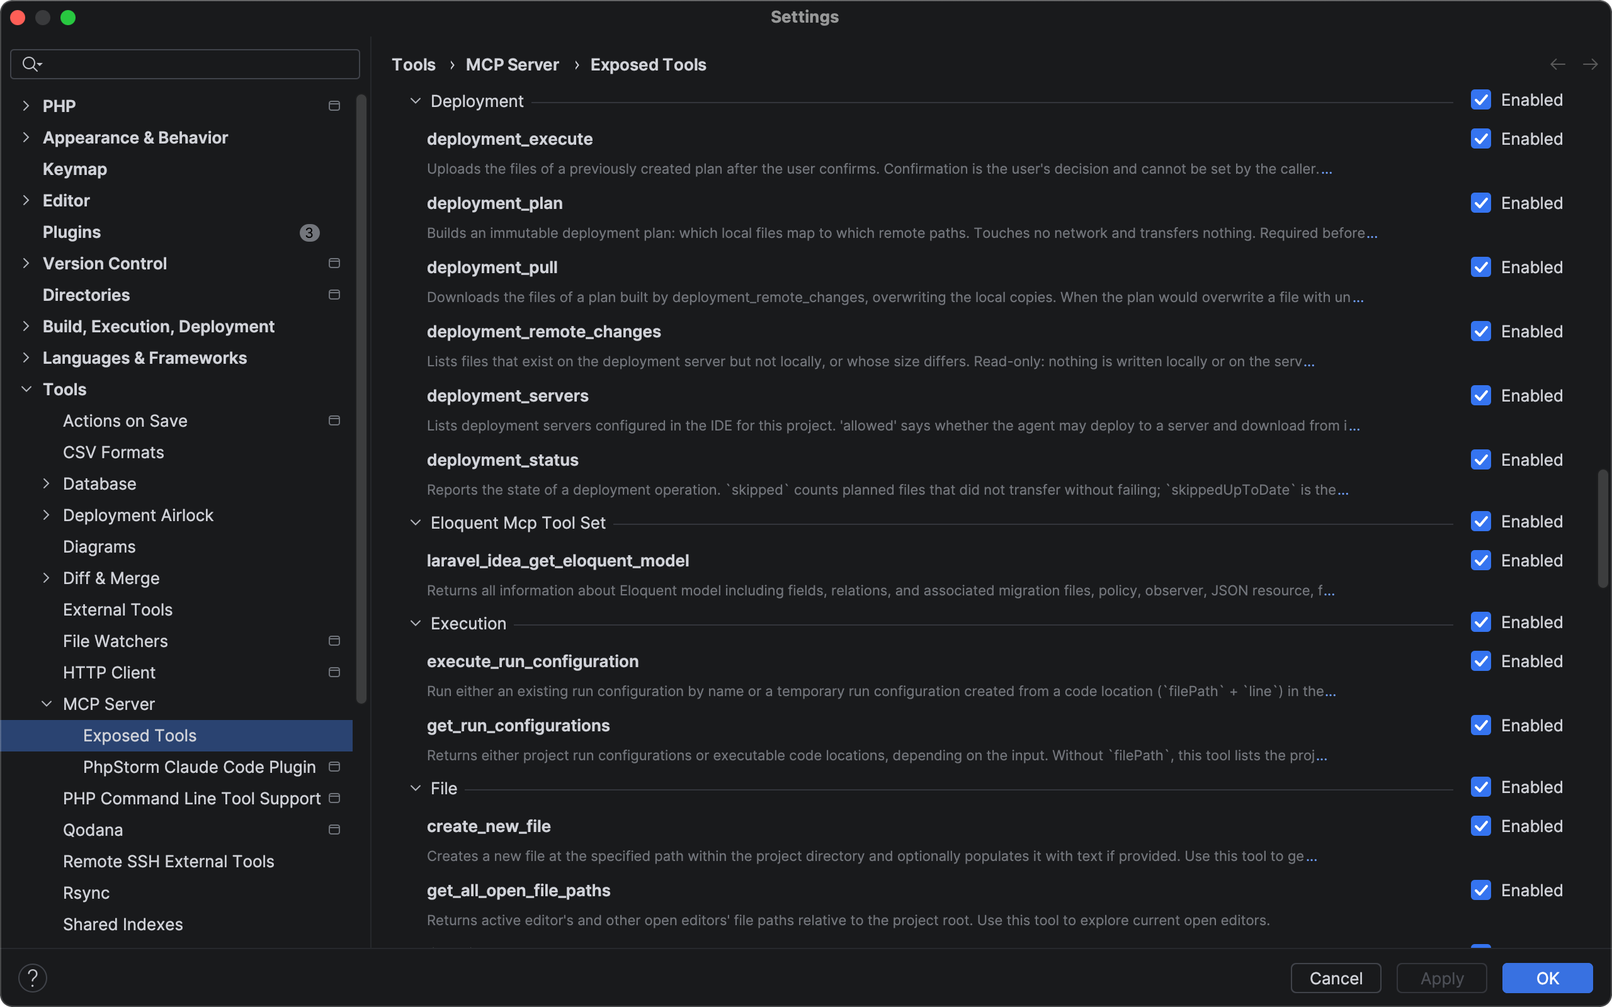
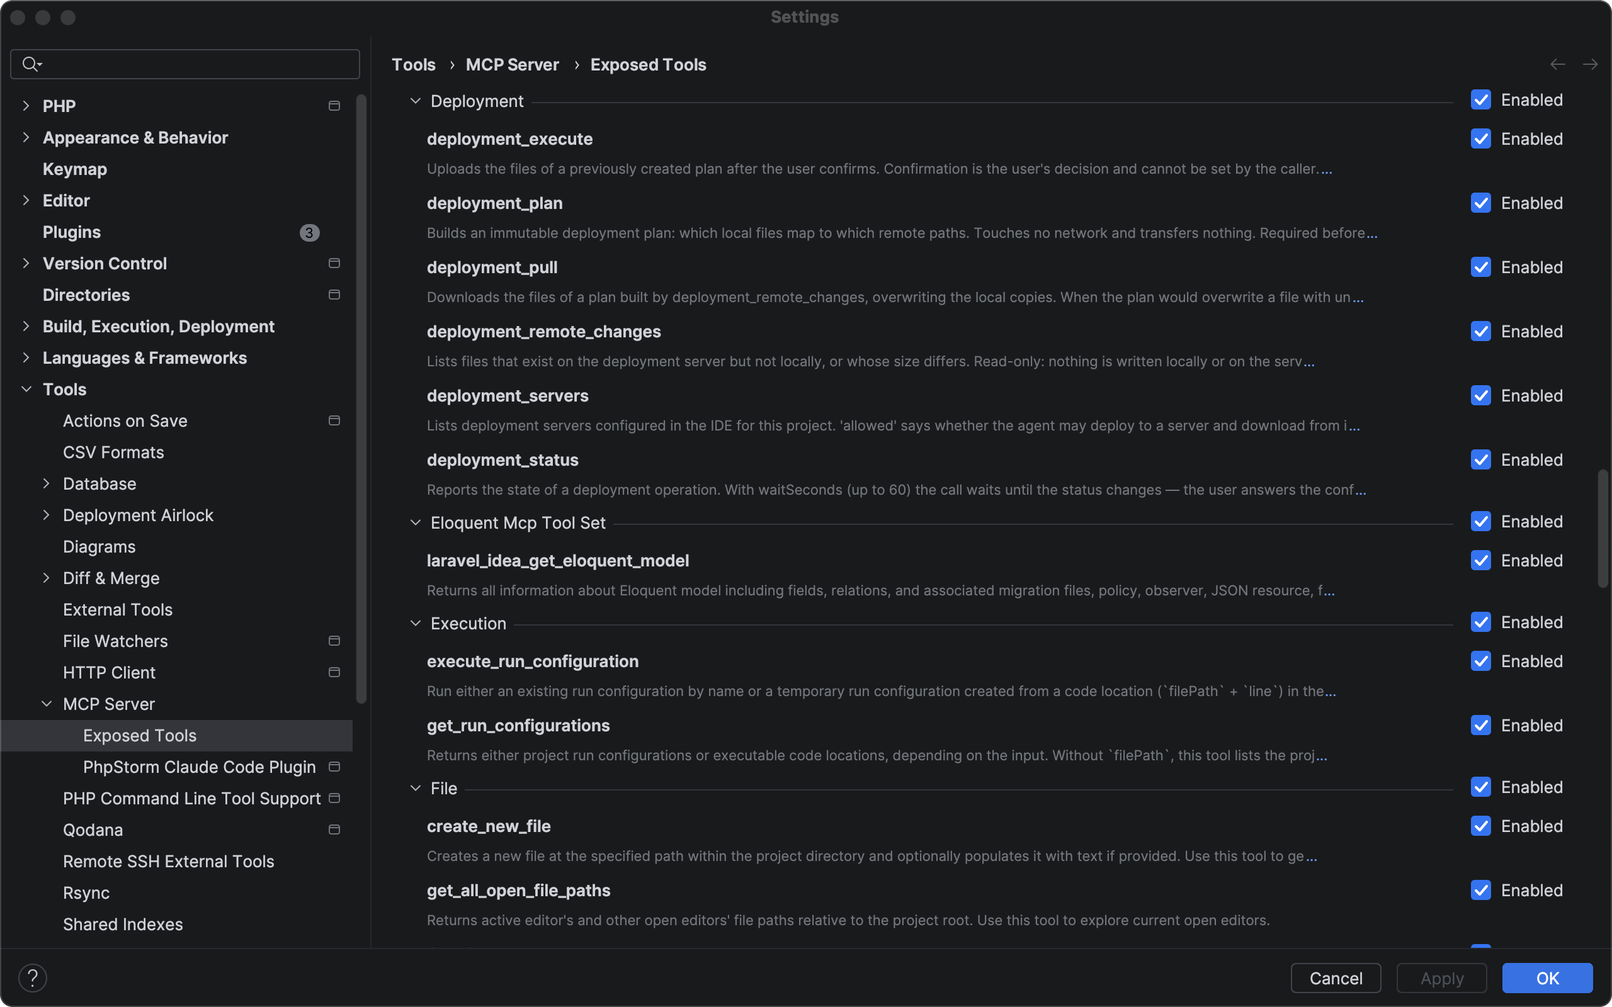
Release 1.1.0: exclusion presets, upload echo, deployment_status wait

diff --git a/docs/guide/settings.md b/docs/guide/settings.md
@@ -8,7 +8,7 @@ Settings live at the IDE level (**Settings | Tools | Deployment Airlock**) and a
 The split is forced, not a convenience. The project's settings file sits inside the project, and
 the platform picks up external edits to it — so every weakening a project file can express is a
 weakening the agent can grant itself. The effective policy is therefore `strictest(app, project)`,
-merged field by field, and the project level can only tighten.
+merged field by field, and the project level can only tighten (the one exception is [Auto-upload echo](#auto-upload-echo), where no value weakens the barrier).
 
 This page lists every setting in the order the pages show them. For each one: the label as it
 appears in the IDE, then its default, its range, the pages it is on and how the two levels merge.
@@ -152,6 +152,36 @@ When off, a download asks only about files with uncommitted changes, and a plan 
 does not have yet arrives silently. When on, every download asks first, and the setting above stops
 changing anything. A project may switch it on, and cannot switch off what the IDE level switched on.
 
+## Auto-upload echo
+
+Applies to the auto-upload mode **On explicit save action**. In **Always** the IDE uploads a change
+the moment it sees it, before Airlock can act, so these options have no effect there.
+
+After Airlock uploads files, the IDE's own auto-upload would send the same files again
+on the next save: it queues every change and knows nothing about what Airlock did. These options stop
+exactly that repeat. A file is skipped only when Airlock knows its current bytes are already on every
+server auto-upload targets; a file edited after the transfer is uploaded as before. Each skip is
+written to the audit log as `autoUploadSkipped`. Airlock does not otherwise touch auto-upload, and
+the warning about it stays. The memory lasts while the project is open and is cleared by any change
+to the deployment configuration. With Airlock switched off nothing is skipped. Files Airlock
+downloads are not sent back in any mode: the IDE itself skips the files of its own transfers.
+
+**Skip auto-upload of files Airlock already uploaded**\
+Default: on · Pages: both · Merge: the project overrides the IDE (project: As in IDE / On / Off)
+
+A file whose bytes Airlock just put on the target is not uploaded again on save.
+
+**Notify when an auto-upload is skipped**\
+Default: off · Pages: both · Merge: the project overrides the IDE (project: As in IDE / On / Off)
+
+Off by default: after agent work every save would show a balloon.
+
+**Unlike every other setting here, the project may relax these as well as tighten them.** No value
+weakens the barrier: with the option on, only what is already on the same servers with the same
+content is skipped; with it off, the repeat returns, and nothing new is sent either way. An agent
+gains nothing by rewriting the field. On Project Rules each option is a choice of **As in IDE (On)**
+or **As in IDE (Off)** (showing the IDE value), **On**, **Off**; the IDE page has plain checkboxes.
+
 ## Trust
 
 **Trust mode:**\
@@ -189,10 +219,96 @@ Both pages in full, the IDE level first:
 
 ![Full Project Rules page, all groups](img/settings-project-full.png)
 
+## Exclusion presets
+
+A preset is a named list of path patterns for **Deployment | Excluded Paths**, set up once at the IDE
+level and bound to a project. While it is bound, Airlock keeps its entries in the excluded paths of
+every server of the project, including servers added later and files that appear later. A preset adds
+exclusions; only your own action in the settings removes them, so a preset cannot let anything new leave the
+machine on its own. Built-in presets: **AI agents**,
+**Laravel**, **MODX**, **Symfony**, **WordPress**, **Node / frontend**, **Python**. Review what a
+preset holds before you bind it.
+
+**Settings | Tools | Deployment Airlock | Exclusion Presets** (IDE level) edits the presets. The list
+marks **built-in**, **modified** and **hidden** ones. Its toolbar has **+** (New…), **−** (Delete,
+your own presets only), the pencil (Rename…), **Clone…**, **Hide** / **Show** (built-in ones can be
+hidden, not deleted) and **Reset to Default** (a modified built-in one). The entries of the selected
+preset are in the **Entries:** table, one entry per row. Its toolbar has **+** (a new row after the
+selected one, or at the end when nothing is selected, ready to type in), **−** (the selected rows), up and down (the order is kept) and **Paste List…**, which takes
+a list of lines and adds them after the existing entries; spaces around a line are removed and empty
+lines are skipped. A bad entry is shown in red with the reason in its tooltip and in the **Line N: …**
+list under the table (N is the row number); it is skipped, the rest of the preset still works.
+Comment rows (`#`) are shown in grey. Unmodified built-in presets follow plugin updates.
+
+![Exclusion Presets page: the list of built-in presets with AI agents selected, and its entries below](img/exclusion-presets.png)
+
+**Entry syntax.** A path from the project root with `/`. A segment is a name (`docs`, `CLAUDE.md`), a
+glob (`*`, `?`, for example `.aider*`), `**` for any depth (`**/CLAUDE.md`), or `re:<regex>` matched
+against the whole name (`re:\.php-cs-fixer(\.dist)?\.php`). `{projectName}` and `{projectNameLower}`
+work inside a name. Lines starting with `#` are comments. Write paths without `./` and with `/` only:
+a `.` segment or a `\` outside `re:` is flagged as an error, because the platform would never match
+such an entry. Case follows the platform: where the file
+system ignores case (macOS by default), `Tests` and `tests` are the same entry. An entry without
+wildcards is written even if the file does not exist yet; an entry with wildcards is expanded into
+the paths that exist and then watched for new matches.
+
+**Project Rules | Exclusion presets** (project level) is a table of the presets: **Preset** (with
+**built-in** and **modified** marks), **Status** and a button in each row. A preset that is not applied
+shows **Not applied** and **Apply**; an applied one shows **Applied · N entries** and **Remove**, where N
+is the number of entries the preset keeps in the excluded paths, summed over the project's servers (an
+entry two presets share counts for both; one path on two servers counts twice). **Apply** opens a
+preview, per server, of what will be added (an entry you removed from that server earlier is marked
+**(you removed this earlier)**: applying brings it back); **Remove** opens a preview of what will be
+removed. After you confirm, the row says **Will be applied after Settings close** or **Will be removed
+after Settings close**, and its button offers the opposite action, so you can change your mind before
+closing Settings. **Apply** and **Remove** above the table act on every selected row (Shift or ⌘/Ctrl
+to select several): one preview for all of them, one confirmation, and each entry is marked with the
+preset it belongs to. Rows the action does not fit are skipped. Binding is stored in `workspace.xml`,
+per user, not in version control.
+
+**Save Server Exclusions as Preset…** (the button under the table, and an item in the Project view
+context menu) turns the excluded paths of one project server into a new preset; entries outside
+the project or on the remote side are skipped and counted.
+
+How it behaves:
+
+- **An entry you removed stays removed.** If you delete an entry a preset added, from the IDE's
+  Deployment dialog or with **Include in Deployment**, no preset adds it back to that server until you
+  bind a preset again and approve it in the preview. The same holds for an entry you had added by hand
+  that a bound preset also wants: once you remove it, the preset does not add it back.
+- **Paths beneath a removed folder entry stay excluded.** If you remove an entry such as `.claude` that
+  covered paths of a bound preset (`.claude/settings.local.json`, a `CLAUDE.md` inside it), Airlock adds
+  those paths to that server's exclusions right away, once Settings are closed. The entry you removed
+  is not added back, and neither is a path beneath it that you had removed earlier.
+- **Only a person's action removes entries**: **Remove** in the table, or editing a preset while the
+  project is open. Entries you added by hand are never removed, and an entry another bound preset needs stays.
+  Opening a project only adds. A preset edited while the project was closed leaves the entries of its
+  removed lines in place: reopening the project does not remove them, editing that preset again with
+  the project open does.
+- **A bound preset that is no longer available in this IDE** (hidden or deleted) stays in the table as
+  **Not available in this IDE** with a **Forget** button; the toolbar does not act on it. Forget only
+  drops the binding: the entries stay on the servers and become manual, so no preset owns them. If
+  the preset was shown again on the Exclusion Presets page in the meantime, Forget refuses and asks
+  you to use **Remove**, which shows what will be removed.
+- **Writes happen after Settings closes**, even if you close it with Cancel: the Deployment page in
+  the same dialog rewrites all excluded paths when you press OK and would erase them. Confirmed
+  changes show a note about this, and the table marks them as pending. Settings can stay open next to the editor, so this covers every
+  write of a preset, not only the ones you confirm: new matching files, a new server and an edited
+  preset are written once no Settings window of the project is open.
+- **Watching covers new files and folders** that the IDE sees (created, copied, moved, renamed) under
+  the project root; directories already excluded on every server are not walked, symlinks are not
+  followed, and files created outside the IDE appear when the IDE notices them.
+- **Automatic upload set to Always can win the race**: a new file matching a pattern may be uploaded
+  before its exclusion is written. Entries without wildcards are safe, they are in the list in advance.
+- Only the project's own servers are changed, and only the local half of their lists. Agents cannot
+  change presets through Airlock: like the Project view items, this is a person's setting, and it is
+  not written to the audit log.
+
 ## Files and the audit log
 
 - IDE-level settings: `options/deployment-airlock-app.xml` in the IDE's configuration directory.
 - Project settings: `.idea/deployment-airlock.xml` in the project.
+- Exclusion presets: `options/deployment-airlock-presets.xml` in the IDE's configuration directory (only what differs from the built-in ones). Which presets a project uses: `workspace.xml`, per user.
 - Audit log: `modxkit-airlock/audit-<project>-<yyyy-MM-dd>.jsonl` in the IDE's log directory — open
   it with **Help | Show Log in Finder** (**Show Log in Explorer** on Windows). One JSON line per
   event, one file per day (UTC); files older than **Keep the audit log, days:** are deleted.

diff --git a/README.md b/README.md
@@ -29,23 +29,29 @@ sees SSH keys, passwords or tokens, and no separate SFTP client is involved.
   ask** the plan, the allowed paths, the file limit, the content fingerprints and the audit log still
   apply; only the confirmation is dropped.
 - The agent can be limited to certain servers and certain directories of the project.
+- Exclusion presets keep files that have no business on a server off it: the instruction files of AI
+  agents (`CLAUDE.md`, `AGENTS.md`, `.claude`, `.cursor` and others) and the development files of
+  Laravel, MODX, Symfony, WordPress, Node / frontend and Python projects, or lists of your own. An
+  applied preset is kept in the Excluded Paths of every server of the project, including servers
+  added later, and you see what will be added or removed before anything is written.
 - Downloading from the server is off by default; uncommitted local work is never overwritten
   without a question, and `.idea`, `.git`, `.claude` and agent instruction files such as `CLAUDE.md`
   and `AGENTS.md` are never a download target.
 - One operation per server at a time, and every transfer is written to an audit log.
 - What it does not control is named: the IDE's own automatic upload and other MCP tools that can
-  reach a server.
+  reach a server. On explicit save action, the automatic upload no longer sends again the files
+  Airlock has just uploaded.
 
 ## MCP tools
 
-| Tool                        | What it does                                                                                                                                               |
-| --------------------------- | ---------------------------------------------------------------------------------------------------------------------------------------------------------- |
-| `deployment_servers`        | Deployment servers configured for the project. Never credentials.                                                                                          |
-| `deployment_plan`           | Immutable, expiring plan of local → remote paths. **Built entirely offline** — no connection, no credentials, nothing touched on the server.               |
-| `deployment_execute`        | Uploads a plan, after the user confirms it. The caller cannot set confirmation.                                                                            |
-| `deployment_status`         | State of a running operation — including which of the skipped files the IDE itself explained, and what that means for the copies on disk.                  |
-| `deployment_remote_changes` | What changed **on the server**: compares the server's tree with the project and returns the comparison, which is itself the download plan. Off by default. |
-| `deployment_pull`           | Downloads a plan built by `deployment_remote_changes`, after the user confirms it. Off by default.                                                         |
+| Tool                        | What it does                                                                                                                                                                          |
+| --------------------------- | ------------------------------------------------------------------------------------------------------------------------------------------------------------------------------------- |
+| `deployment_servers`        | Deployment servers configured for the project. Never credentials.                                                                                                                     |
+| `deployment_plan`           | Immutable, expiring plan of local → remote paths. **Built entirely offline** — no connection, no credentials, nothing touched on the server.                                          |
+| `deployment_execute`        | Uploads a plan, after the user confirms it. The caller cannot set confirmation.                                                                                                       |
+| `deployment_status`         | State of a running operation — including which of the skipped files the IDE itself explained, and what that means for the copies on disk. Can wait up to 60 seconds for it to change. |
+| `deployment_remote_changes` | What changed **on the server**: compares the server's tree with the project and returns the comparison, which is itself the download plan. Off by default.                            |
+| `deployment_pull`           | Downloads a plan built by `deployment_remote_changes`, after the user confirms it. Off by default.                                                                                    |
 
 <!-- Plugin description end -->
 
@@ -103,19 +109,20 @@ More: [protected servers](docs/guide/how-it-works.md#protected-servers),
 
 ## Status
 
-Version 1.0.1 is released on the [JetBrains Marketplace](https://plugins.jetbrains.com/plugin/34261-deployment-airlock). The plugin is free; its source code is closed on purpose, and this repository
+Version 1.1.0 is released on the [JetBrains Marketplace](https://plugins.jetbrains.com/plugin/34261-deployment-airlock). The plugin is free; its source code is closed on purpose, and this repository
 holds the documentation and the issue tracker.
 
 All six tools — four for uploading, two for downloading — the offline plan with TTL / single-use /
-content fingerprint, both confirmation channels, the trust modes, the path zone, settings on two
-levels and the audit log are in place.
+content fingerprint, both confirmation channels, the trust modes, the path zone, exclusion presets,
+settings on two levels and the audit log are in place.
 
 Verified: the unit suite is green; a UI suite runs against a live PhpStorm sandbox over Remote
 Robot; an opt-in integration suite runs the transfer path against a real SFTP server; the manual
 sandbox checklist — including the part no machine can check — has been walked through by a human;
-and the Plugin Verifier reports `Compatible` against `PS-262.10315.130`, `PS-263.4732.41` and
-`WS-262.10315.144` (WebStorm 2026.2.2). Its only notes are two deprecated-API usages that any
-Kotlin class implementing `StatusBarWidget` gets.
+and for 1.1.0 the Plugin Verifier reports `Compatible` against `PS-262.8665.265`, `PS-262.12573.41`
+(PhpStorm 2026.2.5), `PS-263.8311.42` and `IU-263.8311.30` (2026.3.1); WebStorm was last checked
+with 1.0.x, against `WS-262.10315.144` (WebStorm 2026.2.2). Its only notes are two deprecated-API
+usages that any Kotlin class implementing `StatusBarWidget` gets.
 
 WebStorm is verified by the Plugin Verifier only. Both bundled plugins Airlock depends on ship with
 it, but the UI and integration suites run in PhpStorm.

diff --git a/CHANGELOG.md b/CHANGELOG.md
@@ -1,8 +1,57 @@
 # Changelog
 
-## [1.0.1] - 2026-09-25
+## [1.1.0] - 2026-11-24
 
 <!-- Change notes -->
+- Exclusion presets: named lists of paths to keep off the server — the instruction files of AI
+  agents (`CLAUDE.md`, `AGENTS.md`, `.claude`, `.cursor` and others) and the development files of
+  Laravel, MODX, Symfony, WordPress, Node / frontend and Python projects, or lists of your own.
+  Apply a preset on the project's Project Rules page, and Airlock keeps its entries in Deployment |
+  Excluded Paths of every server of the project, including servers added later and files that
+  appear later. Before anything is written you see what will be added or removed. Presets are
+  edited in Settings | Tools | Deployment Airlock | Exclusion Presets; Save Server Exclusions as
+  Preset… in the Project view menu turns a server's current exclusions into a preset.
+- After Airlock uploads files, the IDE's automatic upload on explicit save action no longer sends
+  the same files again. A file edited after the transfer is uploaded as usual. Each skipped file
+  is recorded in the audit log; a notification is optional.
+- `deployment_status` can wait up to 60 seconds for the status to change, so the agent no longer
+  gives up while a confirmation dialog is open or a long transfer is running.
+- A path excluded with Exclude from Deployment no longer keeps uploading on save until the project
+  is reopened.
+<!-- Change notes end -->
+
+### Added
+
+- Exclusion presets (`docs/spec.md` §25): IDE-level `settings/ExclusionPresetStore` with seven
+  built-in presets (`options/deployment-airlock-presets.xml` keeps only what differs from them);
+  project bindings and their ledger in `workspace.xml` (`settings/ExclusionPresetBindings`);
+  `presets/ExclusionPresetService` with `PresetPlanner`, `PlanApplier`, `RemovalTracker`,
+  `HeldSerialRunner` and `PresetFileWatcher`. Background writes only add entries, wait until modal
+  dialogs and the project's Settings window are closed, and never bring back an entry a person
+  removed. Pages: Exclusion Presets (IDE level) and the preset table on Project Rules; the action
+  Save Server Exclusions as Preset….
+- Auto-upload echo suppression (`docs/spec.md` §24): `core/EchoSuppression`,
+  `adapter/EchoMuteFilter`, `adapter/EchoMuteRegistration`, `adapter/EchoReporter`. Options
+  `suppressUploadEcho` (on by default) and `notifyEchoSuppressed` (off) at both levels, the project
+  level may override the IDE in either direction; audit event `autoUploadSkipped`. Applies to the
+  auto-upload mode On explicit save action only.
+- `deployment_status`: optional `waitSeconds` (clamped to 0–60) returns as soon as the status
+  changes, or at once for a finished operation (`docs/spec.md` §8).
+
+### Changed
+
+- Tool descriptions and `docs/AGENTS.template.md`: `running` straight from `deployment_execute`
+  means the upload is already approved, so the agent does not ask for confirmation again.
+- Kotlin 2.4.21, IntelliJ Platform Gradle Plugin 2.20.1.
+
+### Fixed
+
+- Exclude from Deployment publishes `excludedPathsChanged` after the write, as the platform's own
+  action does. Auto-upload works on a copy of the deployment configuration refreshed only by that
+  event, so an excluded path kept uploading on save until the project was reopened.
+
+## [1.0.1] - 2026-09-25
+
 - When a confirmation dialog opens while the IDE is in the background — typically while you are
   working in the agent's terminal — the IDE's icon in the Dock or taskbar asks for attention until
   you switch to it, and a system notification names the server and the number of files. Before,
@@ -11,7 +60,6 @@
 - The IDE-level settings page no longer scrolls sideways in a narrow Settings window: the label of
   the list of hosts confirmed in the agent's terminal now sits above the list.
 - Checked against PhpStorm 2026.3.
-<!-- Change notes end -->
 
 ### Added
 

diff --git a/AGENTS.template.md b/AGENTS.template.md
@@ -32,8 +32,19 @@ built-in MCP server. They are the only way to move files between this project an
    plan contains, including its `warnings`.
 3. `deployment_execute` with the `planId`. The user confirms, in your terminal or in an IDE dialog;
    you cannot confirm for them.
-4. `deployment_status` with the `operationId` until the status is `success`, `failed`, `declined`
-   or `cancelled`. Report what was uploaded, what was skipped, and the `warnings`.
+   - `running` straight from this call means the upload is already approved: the user answered the
+     form in your terminal, or trusted this server for the session, or turned confirmation off. Do
+     not ask them to confirm, and do not ask again for later uploads to that server in this
+     session — while the trust lasts, each new `deployment_execute` returns `running` again.
+   - `waiting_confirmation` means an IDE dialog is open. Go to step 4; do not ask the user in chat
+     whether they confirmed.
+4. `deployment_status` with the `operationId` and `waitSeconds: 60`, again and again until the
+   status is `success`, `failed`, `declined` or `cancelled`. Each call waits up to 60 seconds for
+   the user's answer or for the transfer, and returns at once when something changes. Do not ask
+   the user whether they confirmed or whether the transfer has finished — the status tells you. If
+   the status is still `waiting_confirmation` after several minutes, tell the user once that the
+   dialog is waiting in the IDE, and keep waiting. Report what was uploaded, what was skipped, and
+   the `warnings`.
 
 ### Downloading from the server
 
@@ -42,7 +53,9 @@ For files created or changed on the server — for example by a code generator t
 1. `deployment_remote_changes` — what differs between the server and the project; the answer is
    itself the download plan. Files are compared by size; pass `verify: true` when a change that
    keeps a file's length matters.
-2. `deployment_pull` with that `planId`, then `deployment_status` as above.
+2. `deployment_pull` with that `planId`, then `deployment_status` with `waitSeconds: 60` as above.
+   `running` straight from `deployment_pull` means nobody will be asked; `waiting_confirmation`
+   means the user is deciding about files with uncommitted changes.
 
 Downloading is off unless the user turned it on; `PULL_DISABLED` means exactly that.
 
